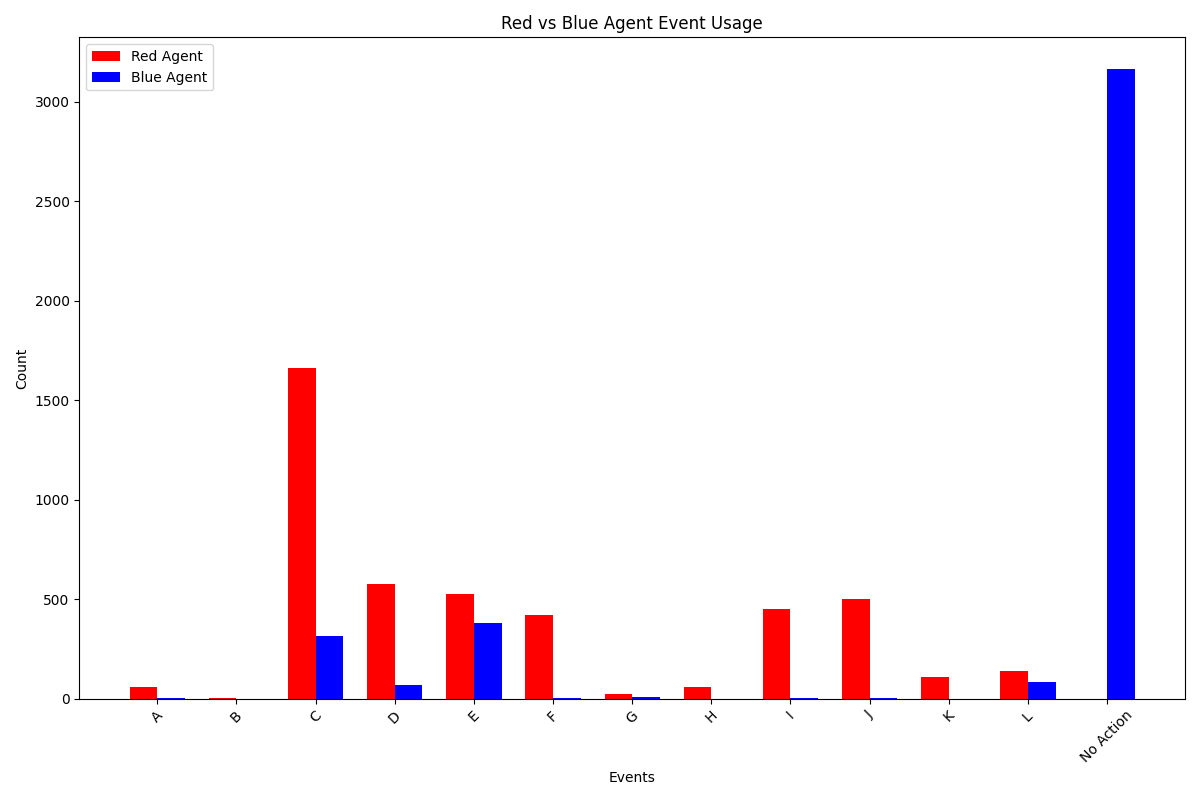
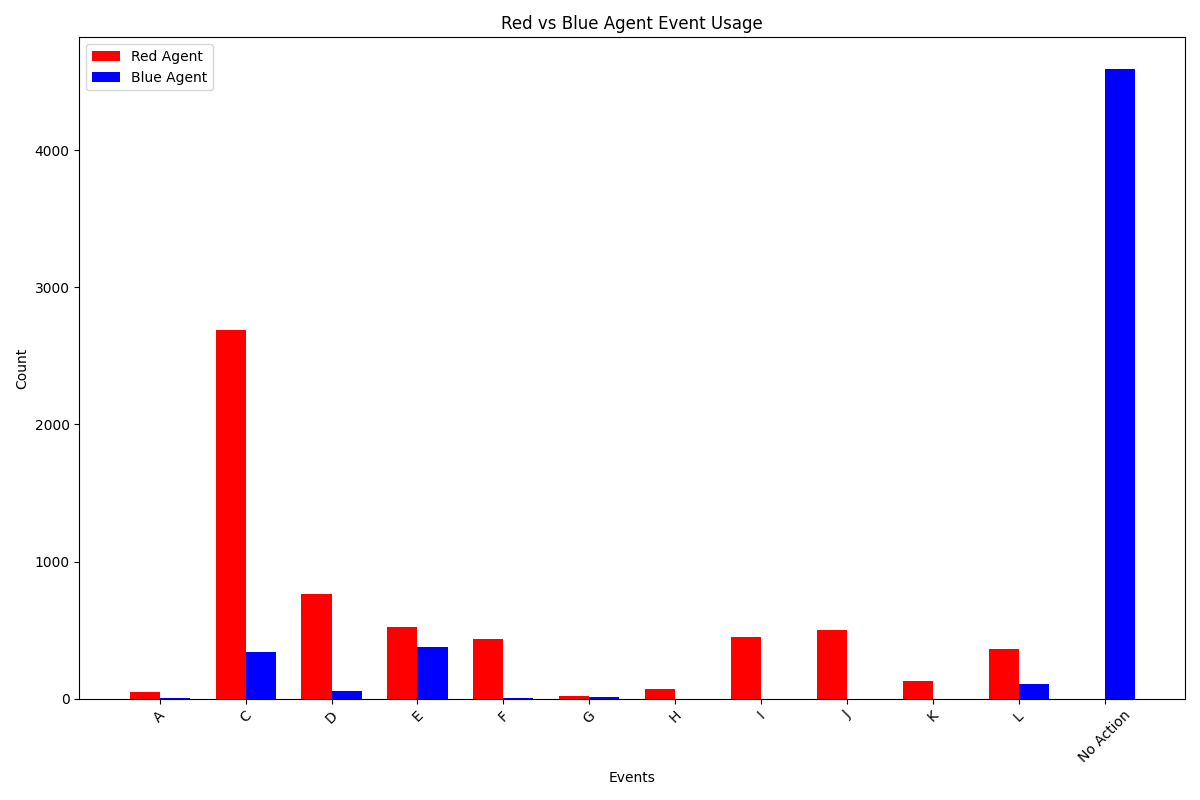
Evaluating the new high dim. DFT

diff --git a/demo.py b/demo.py
@@ -1,48 +1,77 @@
+# import matplotlib.pyplot as plt
+# import numpy as np
+#
+# # Define events and their usage counts for Red and Blue Agents
+# events = ['A', 'C01', 'C02', 'D', 'E01', 'E02', 'F', 'I01', 'I02', 'J', 'K', 'L01', 'L02', 'No Action']
+# red_values = [217, 486, 499, 571, 500, 124, 177, 167, 199, 623, 489, 500, 8320, 0]  # 0 for 'No Action' in Red
+# blue_values = [162, 0, 5, 0, 0, 0, 0, 0, 0, 225, 4, 0, 699, 11277]  # 0 for missing events in Blue
+#
+# # Set up figure and bar width
+# plt.figure(figsize=(12, 7))
+# bar_width = 0.45
+# index = np.arange(len(events))
+#
+# # Plot bars for Red Agent and Blue Agent
+# plt.bar(index, red_values, bar_width, label='Red Agent', color='red')
+# plt.bar(index + bar_width, blue_values, bar_width, label='Blue Agent', color='blue')
+#
+# # Use logarithmic scale on the y-axis
+# plt.yscale('log')
+# plt.xlabel('Event')
+# plt.ylabel('Count')
+# plt.title('Game Event Usage')
+#
+# # Set x-ticks to show event names
+# plt.xticks(index + bar_width / 2, events, rotation=45)
+#
+# # Add a legend to differentiate between Red and Blue Agent bars
+# plt.legend()
+#
+# # Show the plot
+# plt.tight_layout()
+# plt.show()
 import matplotlib.pyplot as plt
+import numpy as np
 import os
 
 save_dir = '03_100K_DFT_MARL-ddqn_analysisGraphs'
 os.makedirs(save_dir, exist_ok=True)
-save_path = os.path.join(save_dir, 'win_percentage_chart_combined.png')
 
-# Data for both pie charts
-data1 = {'Red Agent': 494, 'Blue Agent': 6}
-data2 = {'Red Agent': 467, 'Blue Agent': 33}
-colors = ['red', 'blue']
+# Define events and their usage counts for Red and Blue Agents
+events = ['A', 'C01', 'C02', 'D', 'E01', 'E02', 'F', 'I01', 'I02', 'J', 'K', 'L01', 'L02', 'No Action']
+red_values = [217, 486, 499, 571, 500, 124, 177, 167, 199, 623, 489, 500, 8320, 0]  # 0 for 'No Action' in Red
+blue_values = [162, 0, 5, 0, 0, 0, 0, 0, 0, 225, 4, 0, 699, 11277]  # 0 for missing events in Blue
 
-fig, (ax1, ax2) = plt.subplots(1, 2, figsize=(12, 6))
+# Set up figure and main plot parameters
+fig, ax = plt.subplots(figsize=(12, 7))
+bar_width = 0.45
+index = np.arange(len(events))
 
-# To plot the first pie chart
-sizes1 = list(data1.values())
-ax1.pie(
-    sizes1,
-    labels=[''] * len(data1),
-    colors=colors,
-    autopct='%1.1f%%',
-    pctdistance=1.2,
-    startangle=140,
-    textprops={'fontsize': 12}
-)
-ax1.set_title("Over Original DFT", fontsize=14, y=-0.1)  # Move title down
+# Plot bars for Red Agent and Blue Agent on the main plot
+ax.bar(index, red_values, bar_width, label='Red Agent', color='red')
+ax.bar(index + bar_width, blue_values, bar_width, label='Blue Agent', color='blue')
 
-# To plot the second pie chart
-sizes2 = list(data2.values())
-ax2.pie(
-    sizes2,
-    labels=[''] * len(data2),
-    colors=colors,
-    autopct='%1.1f%%',
-    pctdistance=1.2,
-    startangle=140,
-    textprops={'fontsize': 12}
-)
-ax2.set_title("Over Improved DFT", fontsize=14, y=-0.1)  # Move title down
+# Focus the main plot on the lower value range
+ax.set_ylim(0, 1000)  # Adjust as needed to show moderate values
+ax.set_xlabel('Events', labelpad=10)
+ax.set_ylabel('Count')
+ax.set_title('Game Event Usage')
+ax.set_xticks(index + bar_width / 2)
+ax.set_xticklabels(events, rotation=45)
 
-# Adjust legend position
-ax2.scatter([], [], color='red', label='Red Agent', s=80)
-ax2.scatter([], [], color='blue', label='Blue Agent', s=80)
-ax2.legend(loc='lower right', fontsize=8, bbox_to_anchor=(1.2, -0.2))  # Move legend further right
+# Add a legend for clarity
+ax.legend()
 
-plt.suptitle("Average Win Percentage of Agents", fontsize=16)
-plt.savefig(save_path, format='png')
+# Inset plot to show higher values separately
+ax_inset = fig.add_axes([0.5, 0.61, 0.25, 0.25])  # Adjust position and size of the inset
+ax_inset.bar(index, red_values, bar_width, color='red')
+ax_inset.bar(index + bar_width, blue_values, bar_width, color='blue')
+
+# Set y-limit of inset to focus on high values
+ax_inset.set_ylim(1000, 12000)  # Adjust this range to capture high-value events
+ax_inset.set_xticks(index + bar_width / 2)
+ax_inset.set_xticklabels(events, rotation=90, fontsize=8)  # Rotate for readability in inset
+
+save_path = os.path.join(save_dir, 'game_event_usage_with_inset.png')
+plt.savefig(save_path, dpi=300, bbox_inches='tight')
 plt.show()

diff --git a/visualization_model_dft.py b/visualization_model_dft.py
@@ -121,6 +121,68 @@ def draw_edges():
     )
 
 
+def check_cascading_failures():
+    # Check if A and B are red, triggering PS and downstream failures
+    if node_colors['A'] == 'red' and node_colors['B'] == 'red':
+        affected_nodes = ['PS', 'FDEP', 'C1', 'C2', 'G2', 'G3', 'G1']
+        for node in affected_nodes:
+            node_colors[node] = 'red'
+
+    # Check C1 (OR gate) - fails if C or D fails, triggering downstream nodes
+    if node_colors['C'] == 'red' or node_colors['D'] == 'red':
+        affected_nodes = ['C1', 'G2', 'G1']
+        for node in affected_nodes:
+            node_colors[node] = 'red'
+
+    # Check C2 (OR gate) - fails if K or L fails, triggering downstream nodes
+    if node_colors['K'] == 'red' or node_colors['L'] == 'red':
+        affected_nodes = ['C2', 'G3', 'G1']
+        for node in affected_nodes:
+            node_colors[node] = 'red'
+
+    # Check M1 (OR gate) - fails if E or F fails, affecting CSP1
+    if node_colors['E'] == 'red' or node_colors['F'] == 'red':
+        affected_nodes = ['M1', 'CSP1']
+        for node in affected_nodes:
+            node_colors[node] = 'red'
+
+    # Check M2 (OR gate) - fails if I or J fails, affecting CSP2
+    if node_colors['I'] == 'red' or node_colors['J'] == 'red':
+        affected_nodes = ['M2', 'CSP2']
+        for node in affected_nodes:
+            node_colors[node] = 'red'
+
+    # Check M3 (OR gate) - fails if G or H fails, affecting both CSP1 and CSP2
+    if node_colors['G'] == 'red' or node_colors['H'] == 'red':
+        affected_nodes = ['M3', 'CSP1', 'CSP2']
+        for node in affected_nodes:
+            node_colors[node] = 'red'
+
+    # Check CSP1 and CSP2 failures if any two of M1, M2, or M3 fail
+    failed_M_gates = sum(1 for m in ['M1', 'M2', 'M3'] if node_colors[m] == 'red')
+    if failed_M_gates >= 2:
+        affected_nodes = ['CSP1', 'CSP2', 'G2', 'G3', 'G1']
+        for node in affected_nodes:
+            node_colors[node] = 'red'
+
+    # Ensure G2 fails if C1 or CSP1 is red
+    if node_colors['C1'] == 'red' or node_colors['CSP1'] == 'red':
+        affected_nodes = ['G2', 'G1']
+        for node in affected_nodes:
+            node_colors[node] = 'red'
+
+    # Ensure G3 fails if C2 or CSP2 is red
+    if node_colors['C2'] == 'red' or node_colors['CSP2'] == 'red':
+        affected_nodes = ['G3', 'G1']
+        for node in affected_nodes:
+            node_colors[node] = 'red'
+
+    # Final top event: G1 fails if either G2 or G3 fails
+    if node_colors['G2'] == 'red' or node_colors['G3'] == 'red':
+        node_colors['G1'] = 'red'
+
+
+
 def update(frame):
     ax.clear()
     action = action_sequence[frame]
@@ -131,6 +193,9 @@ def update(frame):
         node_colors[node] = 'red'
     elif agent == "blue_agent" and node != "No Action":
         node_colors[node] = 'blue'
+
+    # Check for cascading failures after each action
+    # check_cascading_failures()
 
     # Draw nodes and edges with updated colors
     draw_nodes()

diff --git a/demo_piechart.py b/demo_piechart.py
@@ -1,0 +1,48 @@
+import matplotlib.pyplot as plt
+import os
+
+save_dir = '03_100K_DFT_MARL-ddqn_analysisGraphs'
+os.makedirs(save_dir, exist_ok=True)
+save_path = os.path.join(save_dir, 'win_percentage_chart_combined_2.png')
+
+# Data for both pie charts
+data1 = {'Red Agent': 485, 'Blue Agent': 15}
+data2 = {'Red Agent': 405, 'Blue Agent': 95}
+colors = ['red', 'blue']
+
+fig, (ax1, ax2) = plt.subplots(1, 2, figsize=(12, 6))
+
+# To plot the first pie chart
+sizes1 = list(data1.values())
+ax1.pie(
+    sizes1,
+    labels=[''] * len(data1),
+    colors=colors,
+    autopct='%1.1f%%',
+    pctdistance=1.2,
+    startangle=140,
+    textprops={'fontsize': 12}
+)
+ax1.set_title("Over Original DFT", fontsize=14, y=-0.1)  # Move title down
+
+# To plot the second pie chart
+sizes2 = list(data2.values())
+ax2.pie(
+    sizes2,
+    labels=[''] * len(data2),
+    colors=colors,
+    autopct='%1.1f%%',
+    pctdistance=1.2,
+    startangle=140,
+    textprops={'fontsize': 12}
+)
+ax2.set_title("Over Improved DFT", fontsize=14, y=-0.1)  # Move title down
+
+# Adjust legend position
+ax2.scatter([], [], color='red', label='Red Agent', s=80)
+ax2.scatter([], [], color='blue', label='Blue Agent', s=80)
+ax2.legend(loc='lower right', fontsize=8, bbox_to_anchor=(1.2, -0.2))  # Move legend further right
+
+plt.suptitle("Average Win Percentage of Agents with blue_agent having 20% more Resources", fontsize=16)
+plt.savefig(save_path, format='png')
+plt.show()

diff --git a/evaluation.py b/evaluation.py
@@ -298,7 +298,7 @@ def calculate_and_plot_event_usage(actions):
     plt.xticks([i + bar_width / 2 for i in index], all_events, rotation=45)
     plt.legend()
     plt.tight_layout()
-    save_dir = '2_100K_DFT_MARL-ddqn_analysisGraphs'
+    save_dir = '03_100K_DFT_MARL-ddqn_analysisGraphs'
     os.makedirs(save_dir, exist_ok=True)
     file_path = os.path.join(save_dir, 'game_event_usage.png')
     plt.savefig(file_path, format='png')
@@ -319,10 +319,10 @@ def actual_game():
     num_games = 500
 
     # Load the saved models for both agents (red and blue)
-    red_agent = Agent(name="red_agent_2_100K", gamma=0.99, epsilon=1.0, lr=5e-6,
+    red_agent = Agent(name="red_agent_03_100K", gamma=0.99, epsilon=1.0, lr=5e-6,
                       input_dims=observation, n_actions=num_actions, mem_size=1000000, eps_min=0.01,
                       batch_size=32, eps_dec=1e-3, replace=100)
-    blue_agent = Agent(name="blue_agent_2_100K", gamma=0.99, epsilon=1.0, lr=5e-6,
+    blue_agent = Agent(name="blue_agent_03_100K", gamma=0.99, epsilon=1.0, lr=5e-6,
                        input_dims=observation, n_actions=num_actions, mem_size=1000000, eps_min=0.01,
                        batch_size=32, eps_dec=1e-3, replace=100)
 

diff --git a/src/element.py b/src/element.py
@@ -140,7 +140,7 @@ class BasicEvent(Event):
     def red_action(self):
         """activate basic event"""
         # Check for conditional dependencies
-        if self.name == 'F':                                                                            ###
+        if self.name == 'F':
             if not any(event.name == 'I01' and event.state == 0 for event in self.input):
                 return 0  # Skip failure if I01 has not failed
         elif self.name == 'K':

diff --git a/src/env_creator.py b/src/env_creator.py
@@ -12,6 +12,6 @@ class env_creator():
         system_obj.initialize_system()
         game = Game(system_obj, 500)
         red_agent=game.create_player("red_agent",50)
-        blue_agent=game.create_player("blue_agent",100)
+        blue_agent=game.create_player("blue_agent",50)
         env = CustomEnvironment(system_obj,game)
         return env
